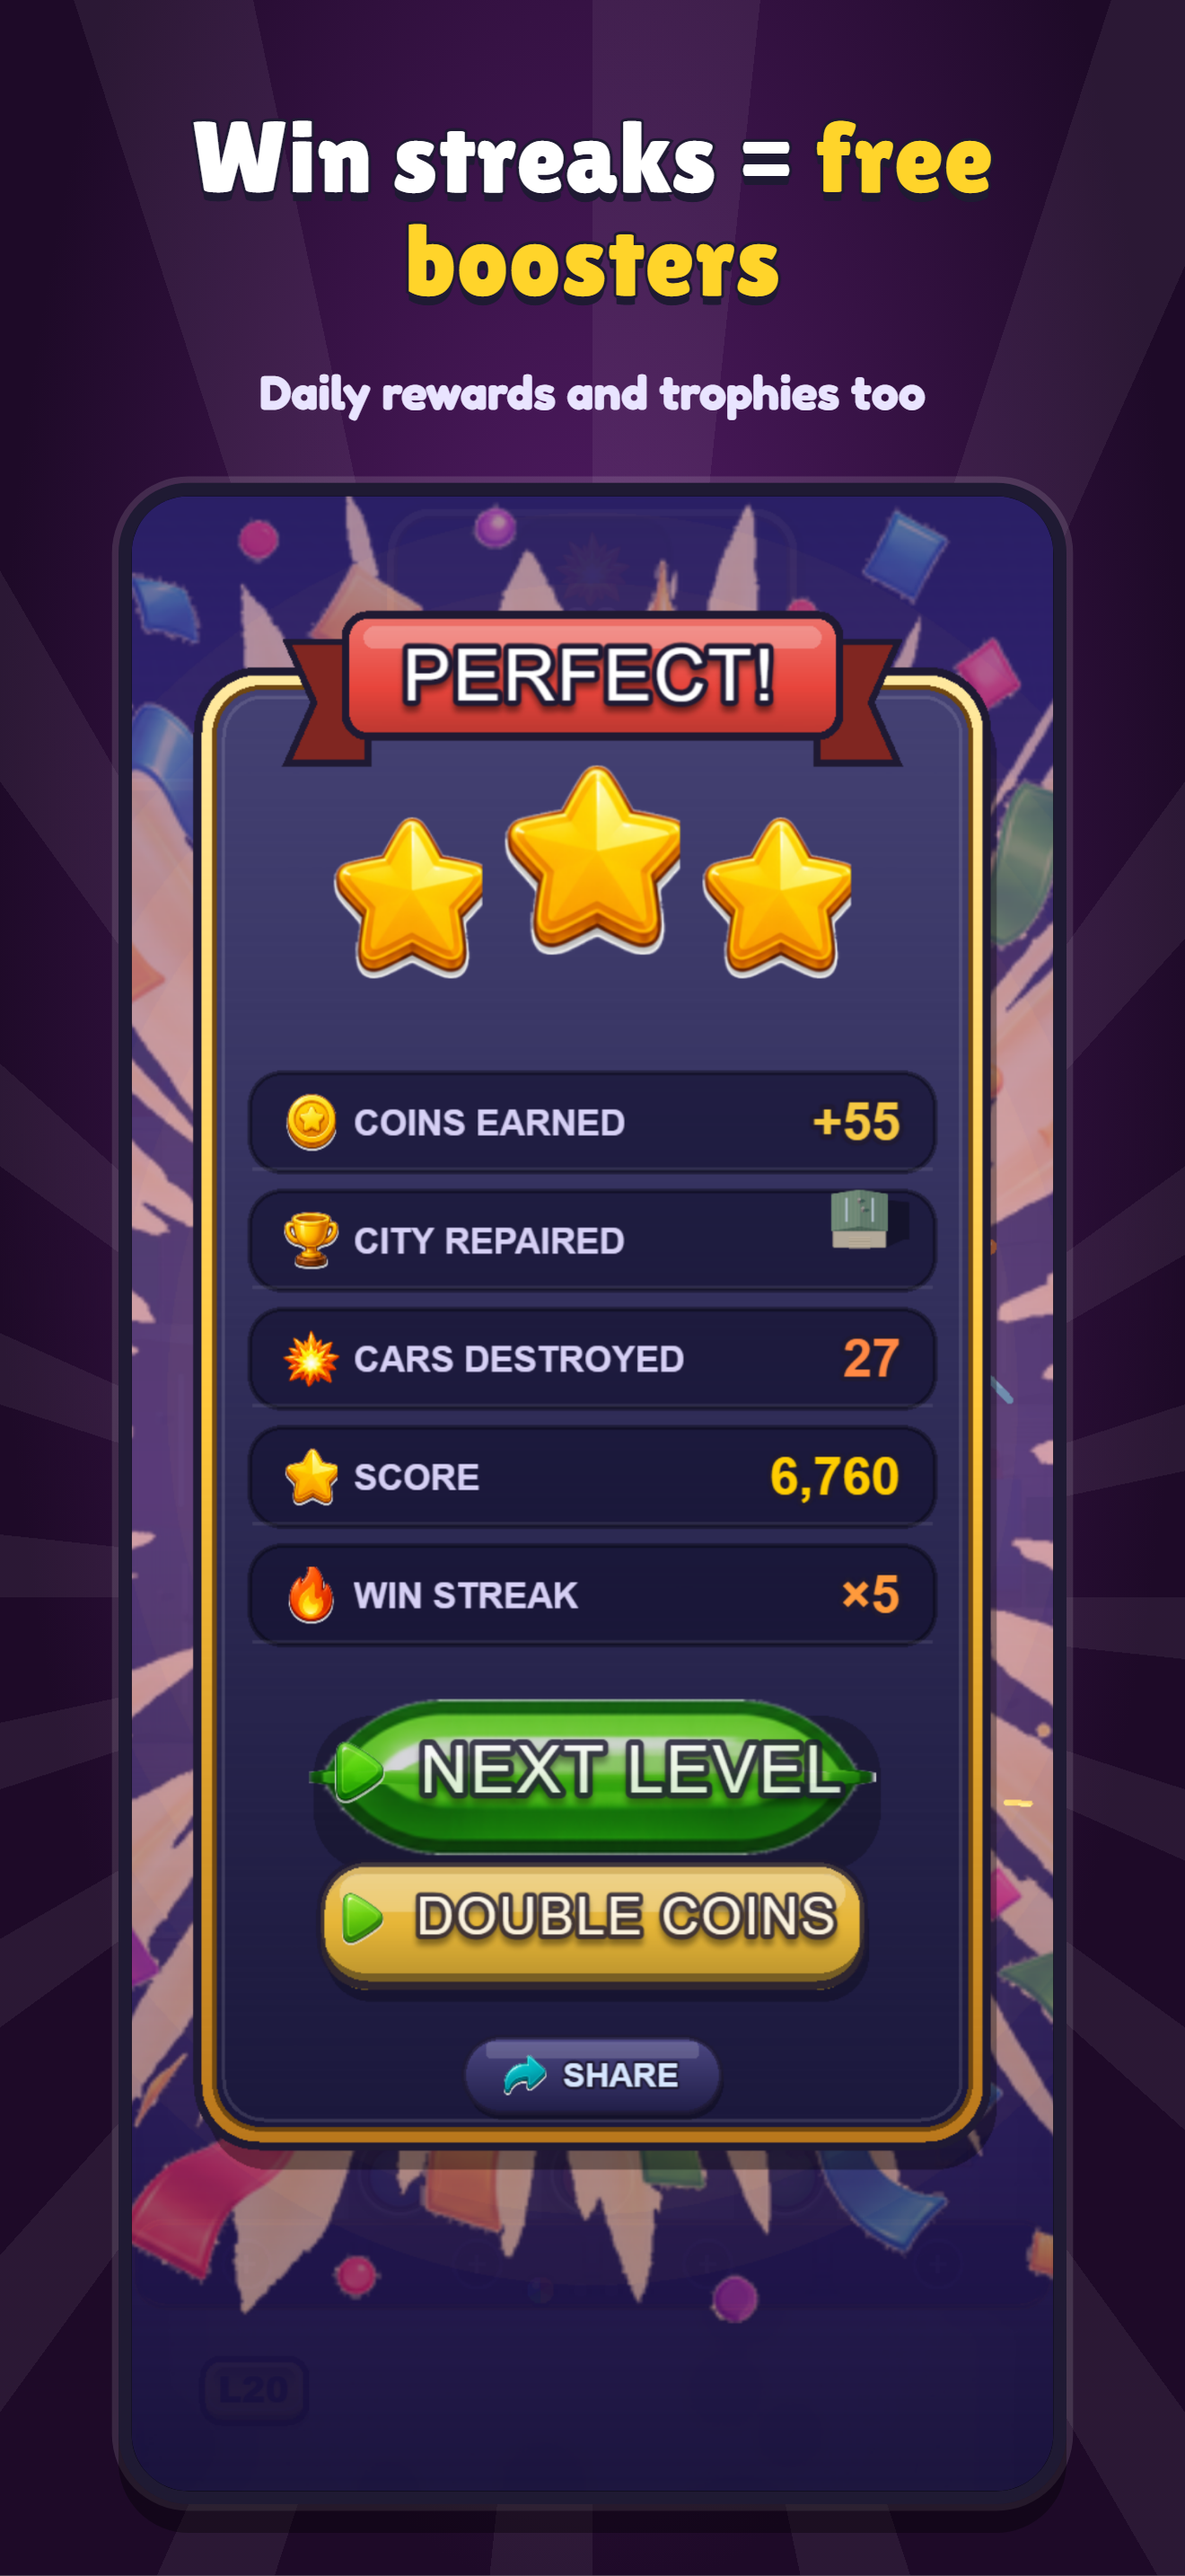
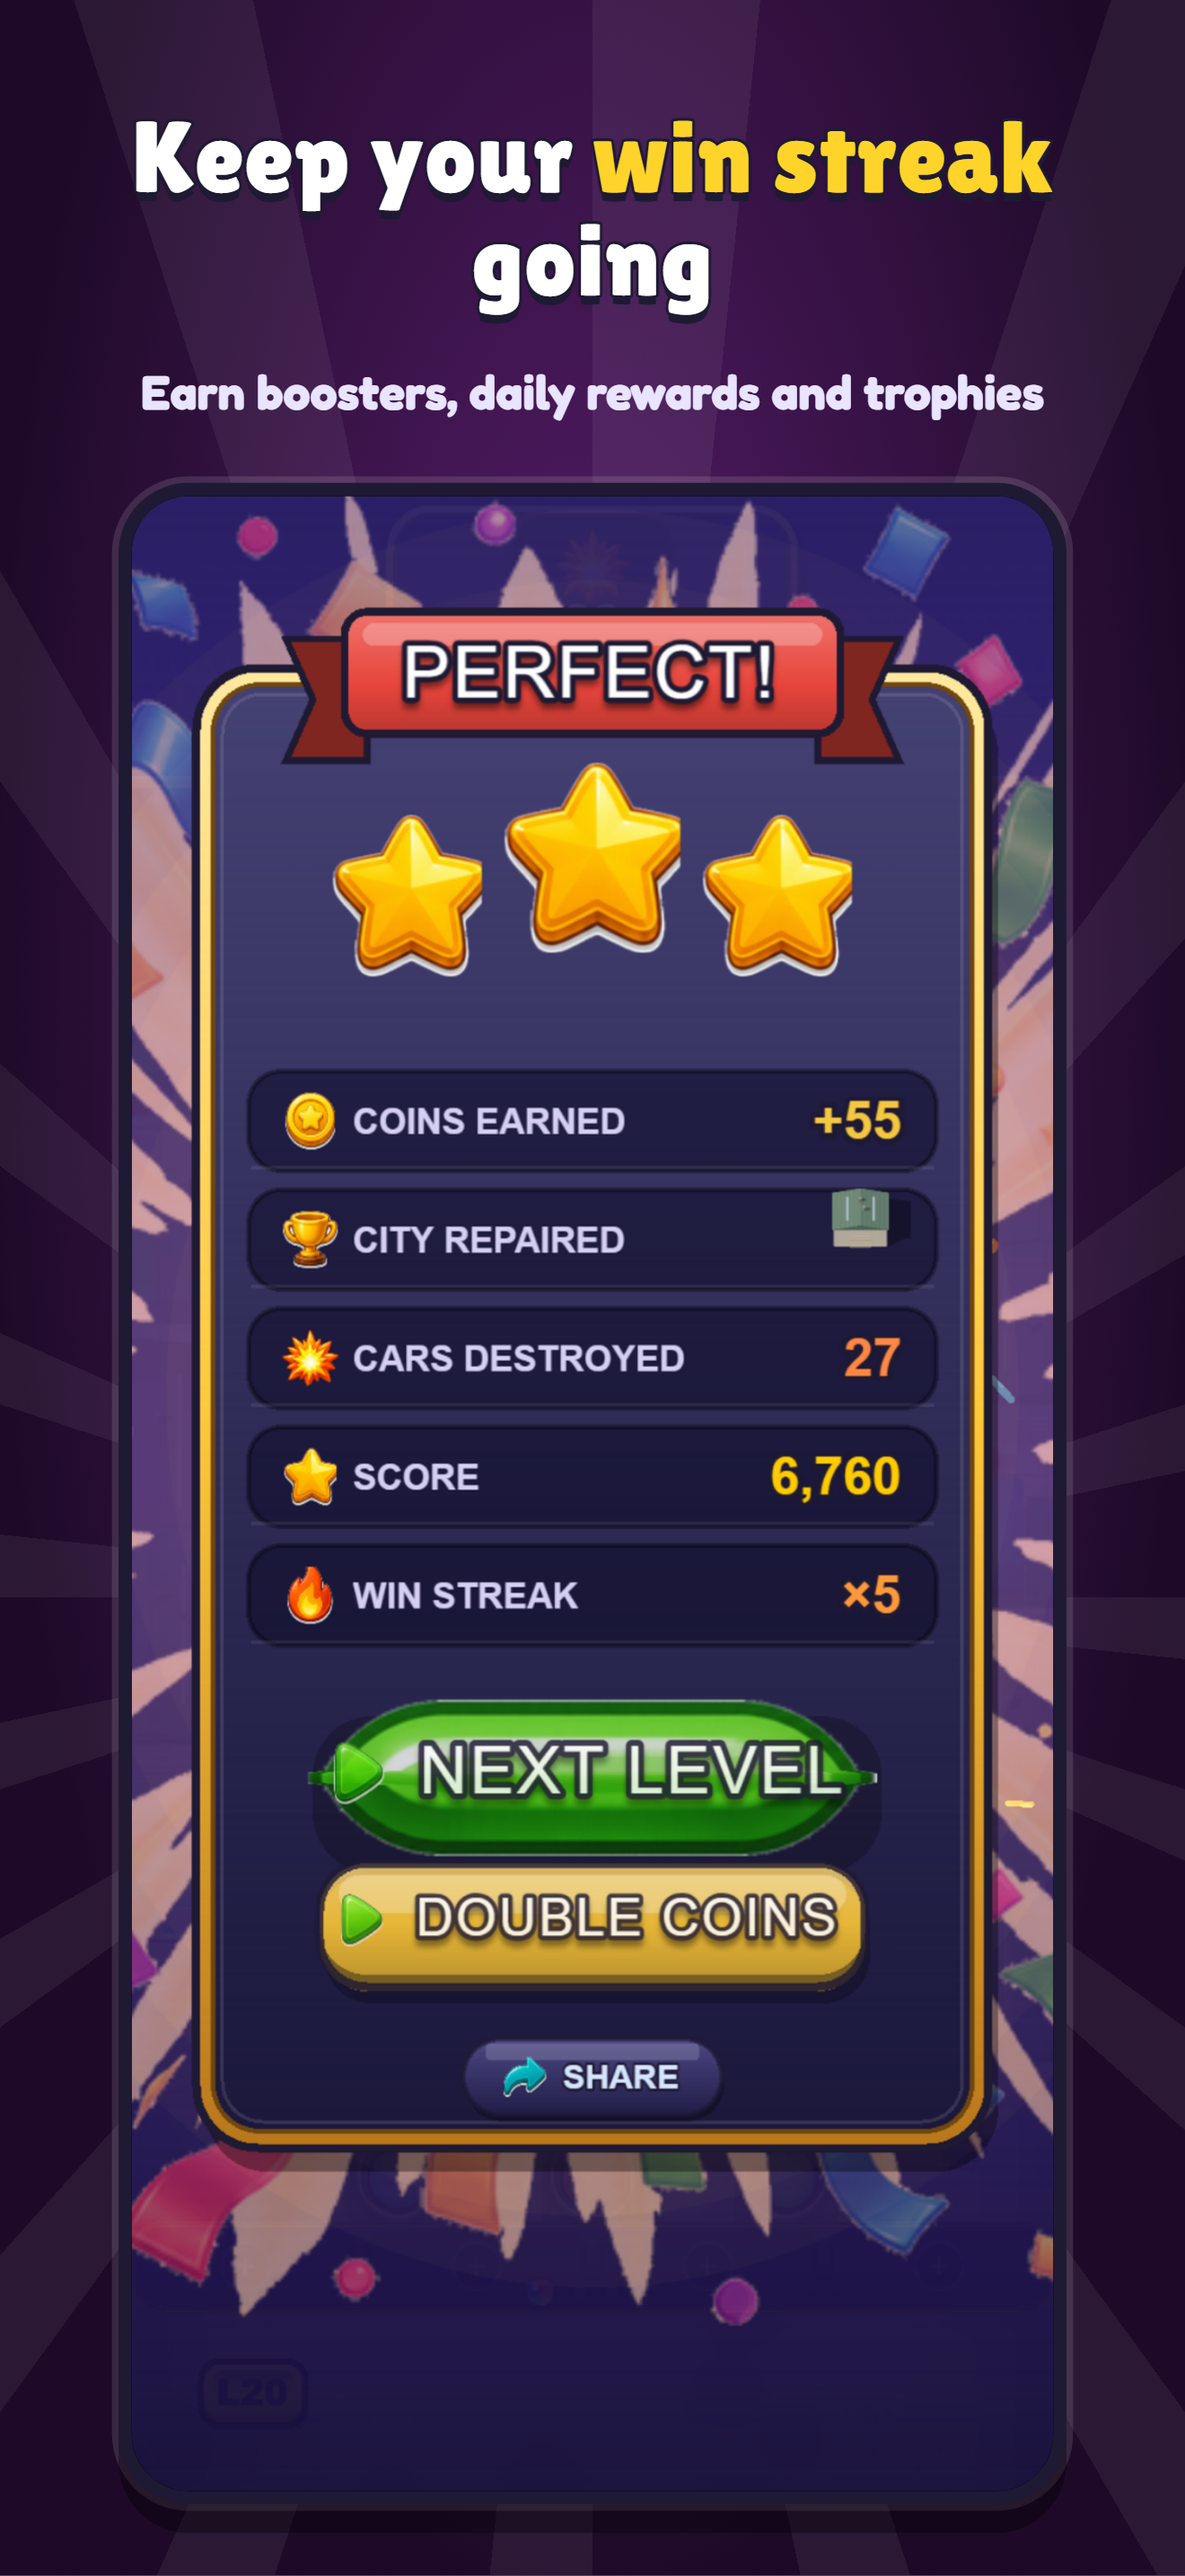
ios: ask for tracking once the app is active; screenshot 7 without a price word
App Review rejected 1.0 (20) on 13 Nov 2026:
- 2.1: no App Tracking Transparency prompt on iPadOS 27.2. The request ran during launch,
  before the app was active, where iOS drops it without an alert. src/ads/tracking.js waits
  for an active app (Capacitor App state), lets the launch settle, asks, and asks again on the
  first tap if the alert still did not appear.
- 2.3.7: screenshot 7 said "Win streaks = free boosters"; "free" counts as a price reference.
  New caption "Keep your win streak going". store-art.mjs keeps slot numbers when raws are
  missing, so one shot can be re-rendered alone.

diff --git a/tests/ios-tracking-prompt.test.js b/tests/ios-tracking-prompt.test.js
@@ -1,0 +1,63 @@
+// App Review (13 Nov 2026, guideline 2.1) could not find the App Tracking Transparency prompt.
+// iOS shows the alert only while the app is ACTIVE; the old code asked during launch, where the
+// request is dropped without an alert and the status stays notDetermined. askTracking waits for
+// an active app before asking, and asks again on the next tap if the alert still never appeared.
+import { describe, it, expect, vi } from 'vitest';
+import { askTracking } from '../src/ads/tracking.js';
+
+function deps({ statuses, active = true }) {
+  const seq = [...statuses];
+  let tapCb = null, activeCb = null;
+  const d = {
+    status: vi.fn(async () => ({ status: seq.length > 1 ? seq.shift() : seq[0] })),
+    request: vi.fn(async () => {}),
+    isActive: vi.fn(async () => active),
+    onActive: vi.fn((cb) => { activeCb = cb; }),
+    onFirstTap: vi.fn((cb) => { tapCb = cb; }),
+    settle: vi.fn(async () => {}),
+    tap: () => tapCb?.(),
+    becomeActive: () => activeCb?.(),
+  };
+  return d;
+}
+
+describe('askTracking', () => {
+  it('does nothing when the player already answered', async () => {
+    const d = deps({ statuses: ['authorized'] });
+    await askTracking(d);
+    expect(d.request).not.toHaveBeenCalled();
+  });
+
+  it('asks once the app is active, after letting the launch settle', async () => {
+    const d = deps({ statuses: ['notDetermined', 'denied'] });
+    await askTracking(d);
+    expect(d.settle).toHaveBeenCalled();
+    expect(d.request).toHaveBeenCalledTimes(1);
+    expect(d.onFirstTap).not.toHaveBeenCalled();
+  });
+
+  it('waits for the app to become active before asking', async () => {
+    const d = deps({ statuses: ['notDetermined', 'authorized'], active: false });
+    const done = askTracking(d);
+    await Promise.resolve(); await Promise.resolve();
+    expect(d.request).not.toHaveBeenCalled();
+    d.becomeActive();
+    await done;
+    expect(d.request).toHaveBeenCalledTimes(1);
+  });
+
+  it('asks again on the first tap when the alert was dropped', async () => {
+    const d = deps({ statuses: ['notDetermined', 'notDetermined', 'notDetermined', 'authorized'] });
+    await askTracking(d);
+    expect(d.request).toHaveBeenCalledTimes(1);
+    expect(d.onFirstTap).toHaveBeenCalledTimes(1);
+    d.tap();
+    await vi.waitFor(() => expect(d.request).toHaveBeenCalledTimes(2));
+  });
+
+  it('never throws when the plugin fails', async () => {
+    const d = deps({ statuses: ['notDetermined'] });
+    d.request.mockRejectedValue(new Error('boom'));
+    await expect(askTracking(d)).resolves.toBeUndefined();
+  });
+});

diff --git a/src/ads/tracking.js b/src/ads/tracking.js
@@ -1,0 +1,36 @@
+// App Tracking Transparency, asked so the alert actually appears.
+//
+// iOS shows the ATT alert only while the app is ACTIVE. A request made during launch (before the
+// app becomes active) is dropped without an alert and the status stays notDetermined: App Review
+// rejected build 20 (13 Nov 2026, guideline 2.1) because it never saw the prompt. So: wait until
+// the app is active, let the launch settle, ask; if the status is still notDetermined (the alert
+// was dropped), ask again on the player's first tap, which can only happen in an active app.
+// The first ad request comes levels later, so the prompt still precedes any tracking.
+
+/**
+ * @param {object} d
+ * @param {() => Promise<{status: string}>} d.status       current ATT status
+ * @param {() => Promise<unknown>} d.request               show the system alert
+ * @param {() => Promise<boolean>} d.isActive              is the app active now
+ * @param {(cb: () => void) => void} d.onActive            call cb once when the app becomes active
+ * @param {(cb: () => void) => void} d.onFirstTap          call cb once on the next tap
+ * @param {() => Promise<void>} d.settle                   short pause after launch
+ */
+export async function askTracking(d) {
+  try {
+    if ((await d.status()).status !== 'notDetermined') return;
+    if (!(await d.isActive())) await new Promise((resolve) => d.onActive(resolve));
+    await d.settle();
+    await d.request();
+    if ((await d.status()).status !== 'notDetermined') return;
+    d.onFirstTap(async () => {
+      try {
+        if ((await d.status()).status === 'notDetermined') await d.request();
+      } catch (e) {
+        console.warn('[tracking] second request failed:', e);
+      }
+    });
+  } catch (e) {
+    console.warn('[tracking] authorization failed:', e);
+  }
+}

diff --git a/src/ads/AdManager.js b/src/ads/AdManager.js
@@ -7,6 +7,8 @@
 // a native wrapper.
 //
 import { Capacitor } from '@capacitor/core';
+import { App as CapApp } from '@capacitor/app';
+import { askTracking } from './tracking.js';
 import { interstitialWindowOpen, isInterstitialTurn, useTestAds } from './adPolicy.js';
 import { AdMob, RewardAdPluginEvents, InterstitialAdPluginEvents, AdmobConsentStatus } from '@capacitor-community/admob';
 import { logEvent } from '../analytics/Analytics.js';
@@ -142,13 +144,26 @@ export class AdManager {
     }
   }
 
+  // iOS drops an ATT request made before the app is active (App Review never saw the prompt on
+  // build 20); askTracking waits for an active app and retries on the first tap. See tracking.js.
   async _requestTracking() {
-    try {
-      const { status } = await AdMob.trackingAuthorizationStatus();
-      if (status === 'notDetermined') await AdMob.requestTrackingAuthorization();
-    } catch (e) {
-      console.warn('[AdManager] tracking authorization failed:', e);
-    }
+    await askTracking({
+      status: () => AdMob.trackingAuthorizationStatus(),
+      request: () => AdMob.requestTrackingAuthorization(),
+      isActive: async () => {
+        try { return (await CapApp.getState()).isActive; } catch { return document.visibilityState === 'visible'; }
+      },
+      onActive: (cb) => {
+        let h = null;
+        CapApp.addListener('appStateChange', ({ isActive }) => {
+          if (!isActive) return;
+          h?.remove?.();
+          cb();
+        }).then((x) => { h = x; }).catch(() => cb());
+      },
+      onFirstTap: (cb) => window.addEventListener('pointerdown', () => cb(), { once: true, capture: true }),
+      settle: () => new Promise((r) => setTimeout(r, 800)),
+    });
   }
 
   /** True when the player may be measured: web (no consent regime) or UMP allows it. */
